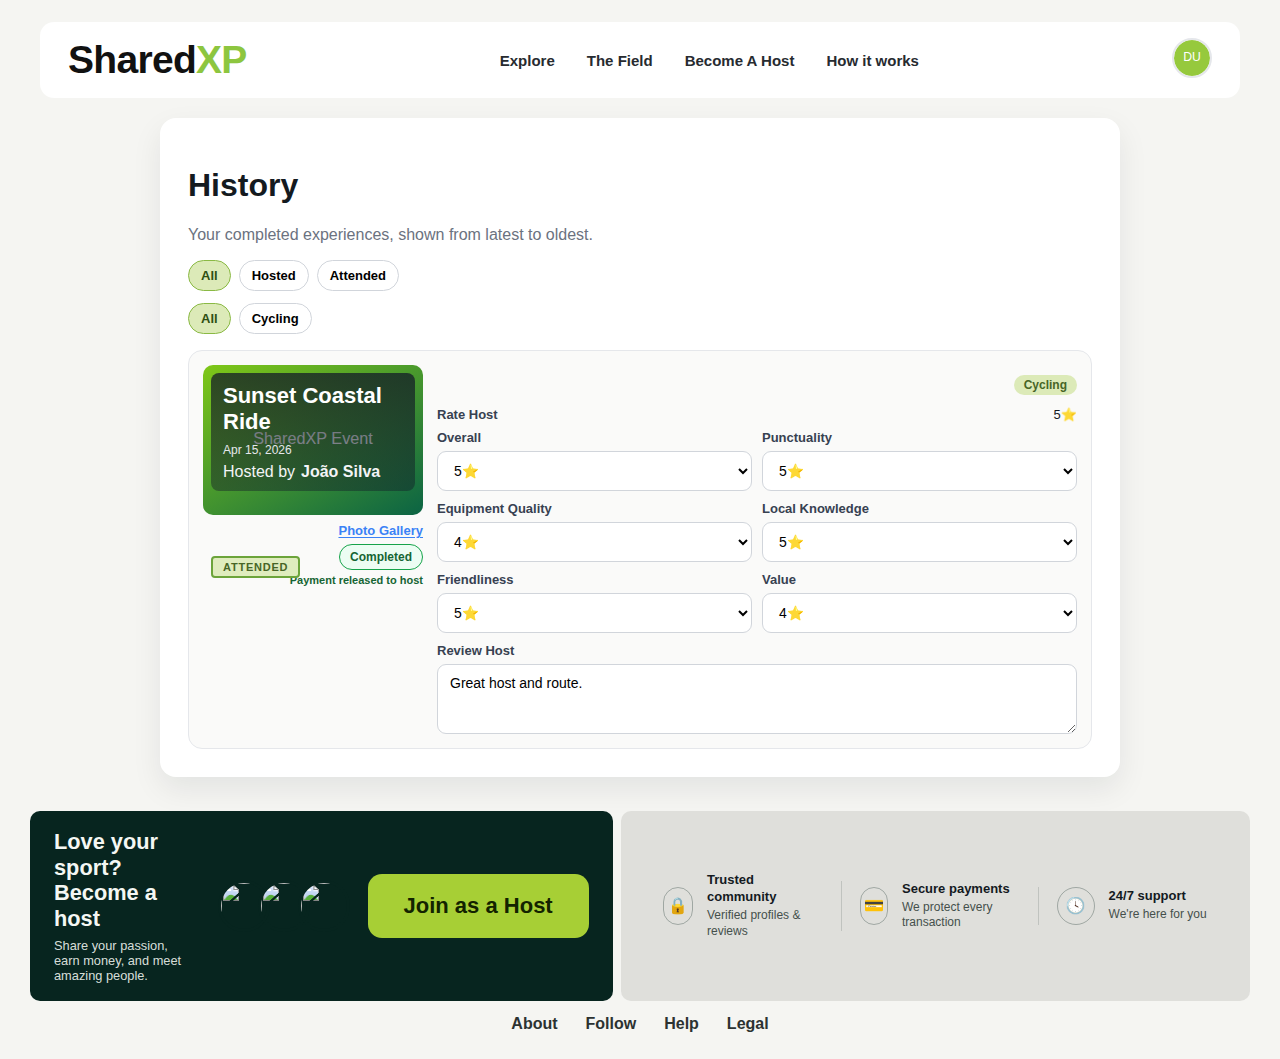
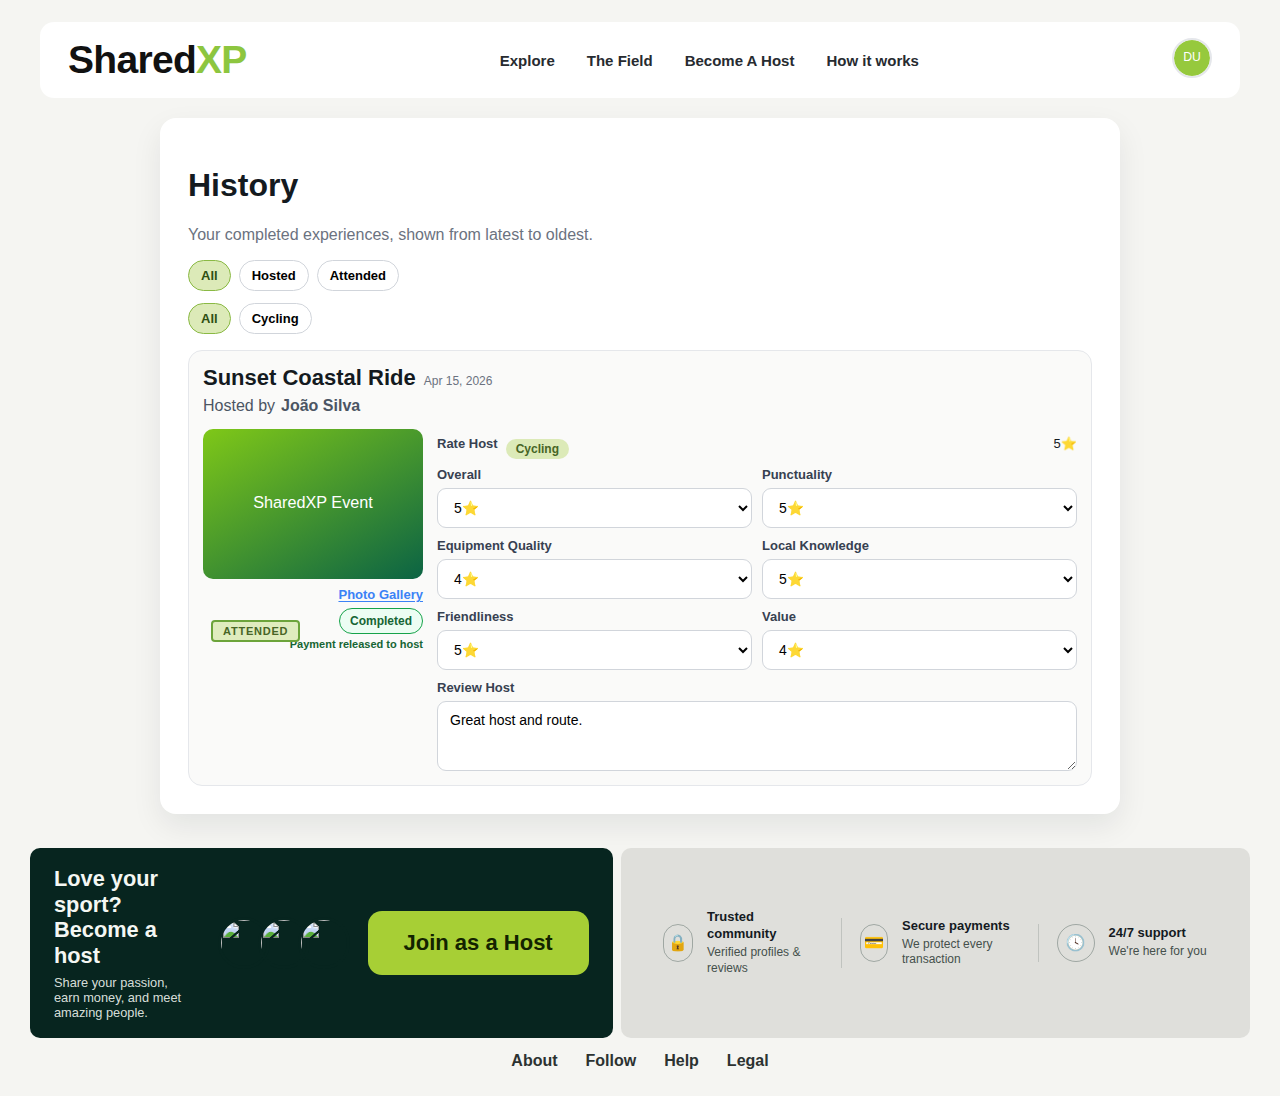
Adjust attendee history layout per review feedback
Agent-Logs-Url: https://github.com/alpcapa/SharedXP/sessions/dc440a3b-b5a8-4776-8c1d-6404a7352729

diff --git a/src/pages/HistoryPage.jsx b/src/pages/HistoryPage.jsx
@@ -537,7 +537,21 @@ const HistoryPage = ({ currentUser, onLogout, onSaveHistory, onSaveHostHistory }
               {visibleItems.map((item) => {
                 const isAttendee = item.role === "attended";
                 return (
-                  <article key={item.id} className="history-card">
+                  <article
+                    key={item.id}
+                    className={`history-card${isAttendee ? " history-card-attendee" : ""}`}
+                  >
+                    {isAttendee && (
+                      <div className="history-attendee-summary">
+                        <div className="history-event-title-row">
+                          <h2>{item.eventName}</h2>
+                          <span className="history-event-date">{item.eventDateLabel}</span>
+                        </div>
+                        <p className="history-host-line">
+                          Hosted by <strong>{item.hostName}</strong>
+                        </p>
+                      </div>
+                    )}
                     <div className="history-card-photo-wrap">
                     <img
                       className="history-card-photo"
@@ -552,17 +566,6 @@ const HistoryPage = ({ currentUser, onLogout, onSaveHistory, onSaveHostHistory }
                     <span className={`history-role-stamp role-${item.role}`}>
                       {item.role === "attended" ? "Attended" : "Hosted"}
                     </span>
-                    {isAttendee && (
-                      <div className="history-photo-summary">
-                        <div className="history-event-title-row">
-                          <h2>{item.eventName}</h2>
-                          <span className="history-event-date">{item.eventDateLabel}</span>
-                        </div>
-                        <p className="history-host-line">
-                          Hosted by <strong>{item.hostName}</strong>
-                        </p>
-                      </div>
-                    )}
                     <button
                       type="button"
                       className="history-photo-gallery-link"
@@ -587,8 +590,8 @@ const HistoryPage = ({ currentUser, onLogout, onSaveHistory, onSaveHostHistory }
                     </span>
                     </div>
                     <div className="history-card-body">
-                      <div className={`history-card-head${isAttendee ? " history-card-head-attendee" : ""}`}>
-                        {!isAttendee && (
+                      {!isAttendee && (
+                        <div className="history-card-head">
                           <div>
                             <div className="history-event-title-row">
                               <h2>{item.eventName}</h2>
@@ -613,18 +616,21 @@ const HistoryPage = ({ currentUser, onLogout, onSaveHistory, onSaveHostHistory }
                                 >
                                   (gave you {formatStarRating(item.attendeeRating)})
                                 </span>
-                                )}
+                              )}
                             </div>
                           </div>
-                        )}
-                        <span className="sport-pill">{item.sport}</span>
-                      </div>
+                          <span className="sport-pill">{item.sport}</span>
+                        </div>
+                      )}
 
                       <div className="history-edit-grid">
                         {isAttendee ? (
                           <div className="history-host-rating-section">
                             <div className="history-host-rating-head">
-                              <span className="history-host-rating-title">Rate Host</span>
+                              <span className="history-host-rating-title-wrap">
+                                <span className="history-host-rating-title">Rate Host</span>
+                                <span className="sport-pill">{item.sport}</span>
+                              </span>
                               {item.rating > 0 && (
                                 <span className="history-stars" aria-label={`Your rating: ${item.rating} stars`}>
                                   {formatStarRating(item.rating)}

diff --git a/src/style.css b/src/style.css
@@ -1732,6 +1732,10 @@ body {
   background: #fafaf9;
 }
 
+.history-card-attendee .history-attendee-summary {
+  grid-column: 1 / -1;
+}
+
 .history-card-photo-wrap {
   position: relative;
   width: 100%;
@@ -1824,31 +1828,13 @@ body {
   pointer-events: none;
 }
 
-.history-photo-summary {
-  position: absolute;
-  top: 8px;
-  left: 8px;
-  right: 8px;
-  padding: 10px 12px;
-  border-radius: 8px;
-  background: linear-gradient(180deg, rgba(17, 24, 39, 0.74), rgba(17, 24, 39, 0.42));
-  color: #f9fafb;
-  pointer-events: none;
-}
-
-.history-photo-summary h2 {
+.history-attendee-summary h2 {
   margin: 0;
   font-size: 22px;
-  color: #fff;
 }
 
-.history-photo-summary .history-event-date {
-  color: #e5e7eb;
-}
-
-.history-photo-summary .history-host-line {
+.history-attendee-summary .history-host-line {
   margin-top: 6px;
-  color: #f3f4f6;
 }
 
 .role-attended {
@@ -1873,10 +1859,6 @@ body {
   align-items: flex-start;
   justify-content: space-between;
   gap: 12px;
-}
-
-.history-card-head-attendee {
-  justify-content: flex-end;
 }
 
 .history-card-head h2 {
@@ -1972,6 +1954,12 @@ body {
   display: flex;
   align-items: center;
   justify-content: space-between;
+  gap: 8px;
+}
+
+.history-host-rating-title-wrap {
+  display: flex;
+  align-items: center;
   gap: 8px;
 }
 
